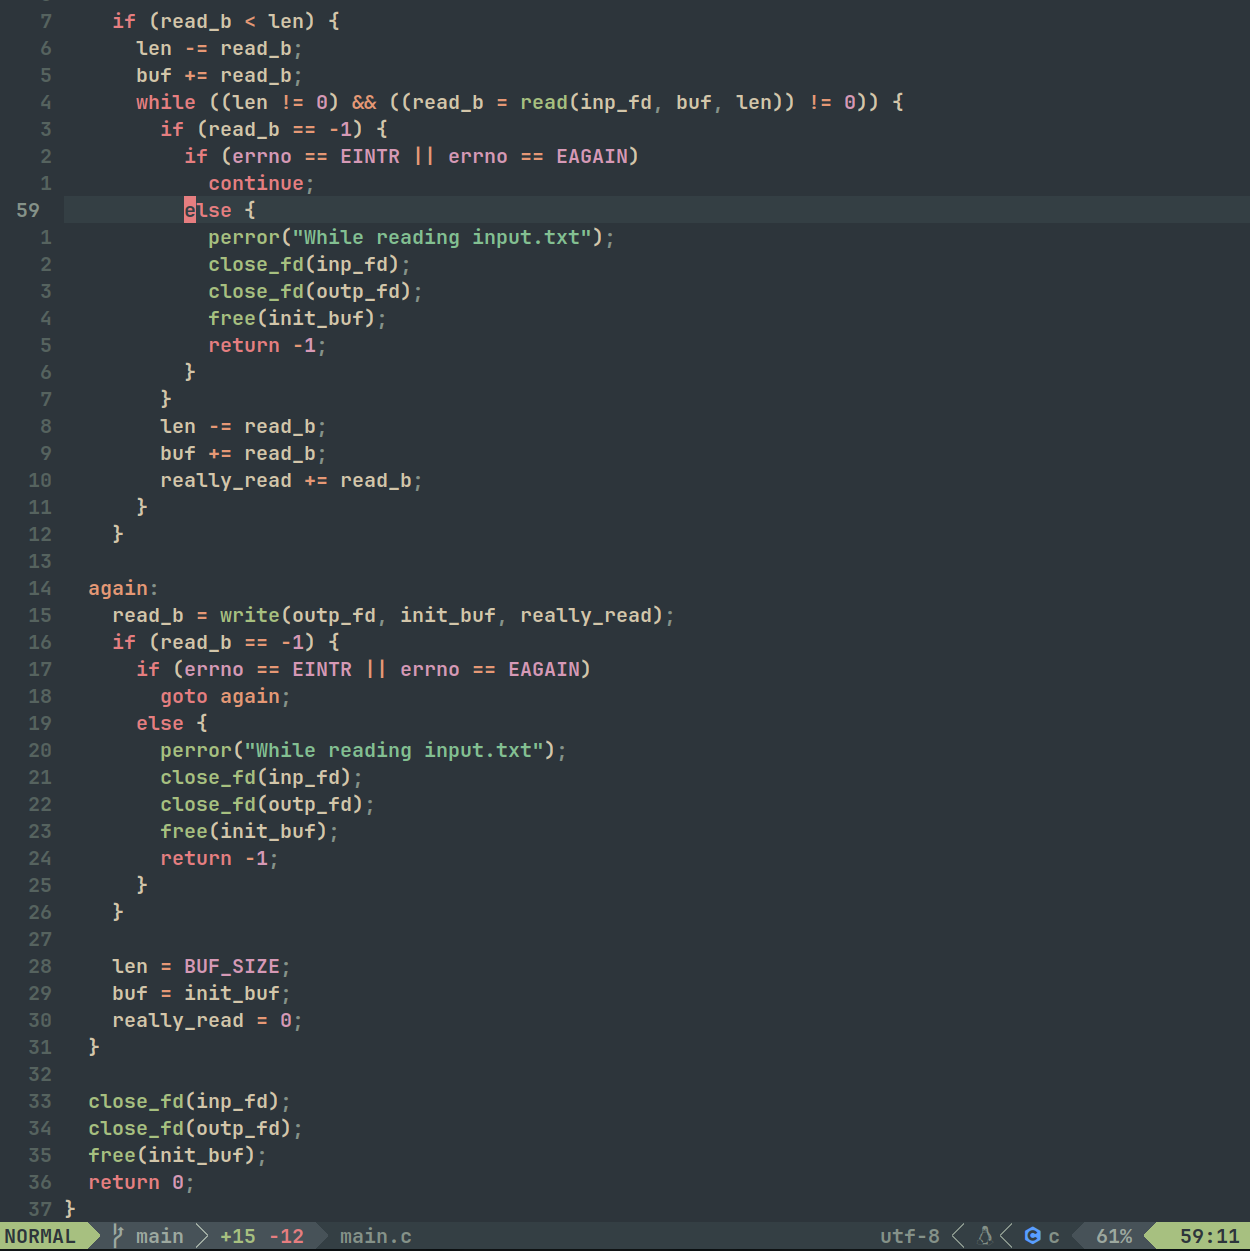
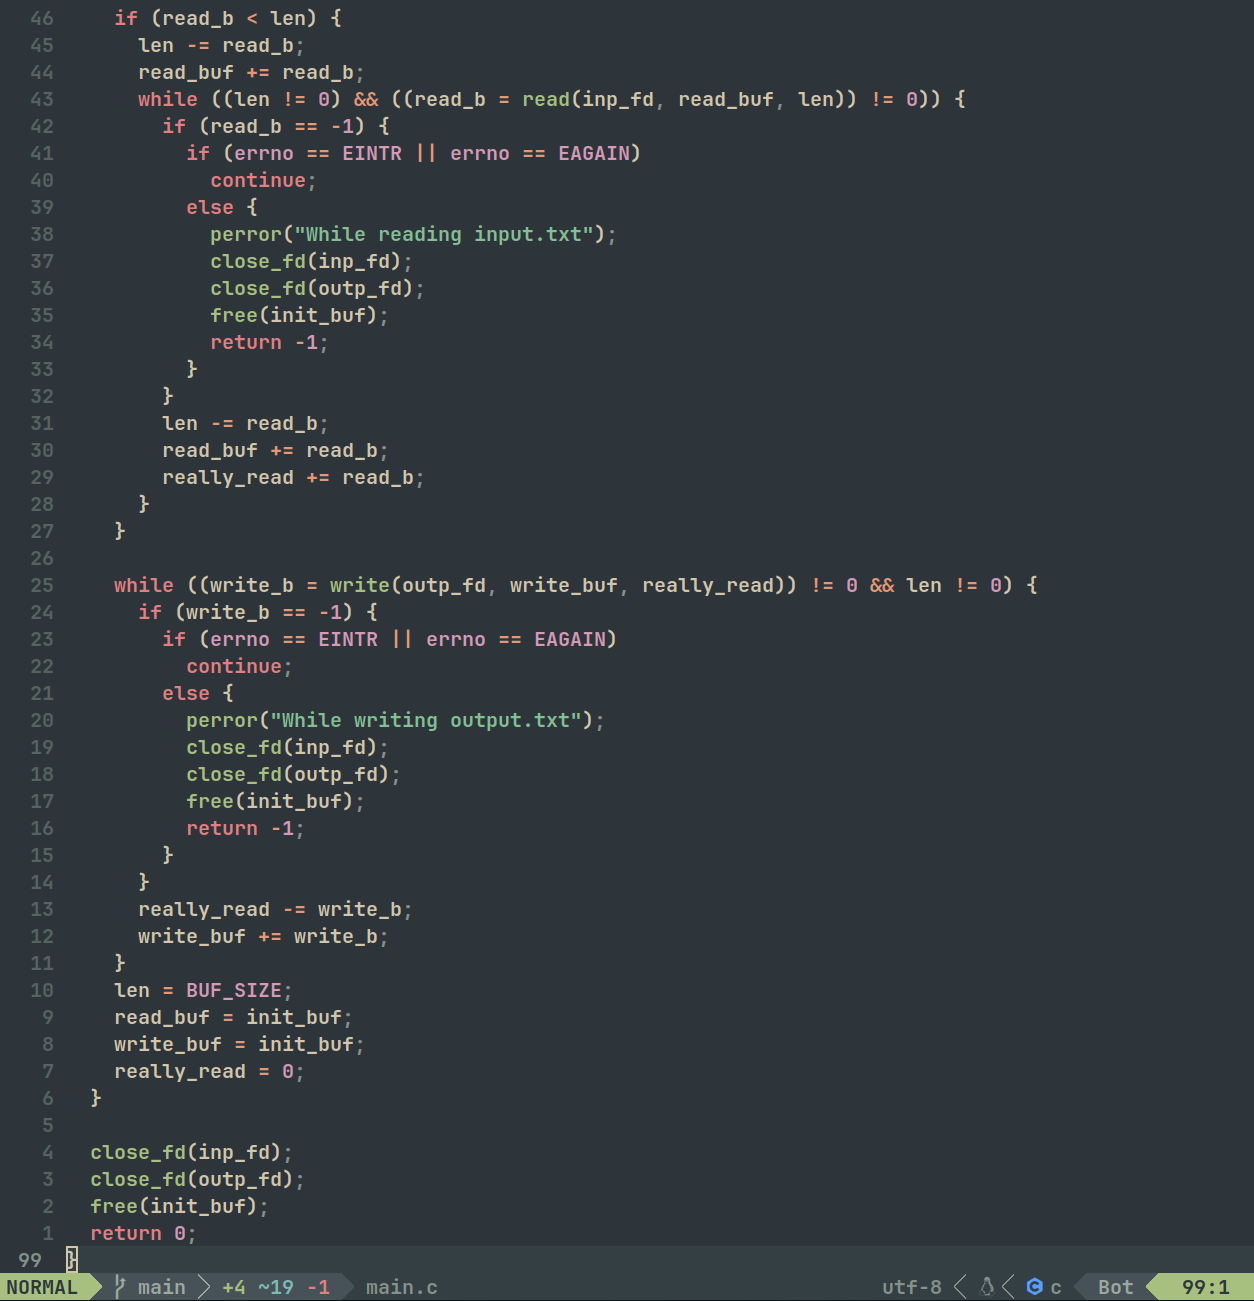
Added checking for partially writing a buffer

diff --git a/read_file/main.c b/read_file/main.c
@@ -29,13 +29,14 @@ int main() {
     return -1;
   }
 
-  ssize_t read_b;
-  char *buf = malloc(sizeof(char) * (BUF_SIZE + 1));
-  char *init_buf = buf;
+  ssize_t read_b,write_b;
+  char *read_buf = malloc(sizeof(char) * (BUF_SIZE + 1));
+  char *init_buf = read_buf;
+  char *write_buf = read_buf;
   int len = BUF_SIZE;
   int really_read = 0;
 
-  while ((read_b = read(inp_fd, buf, len)) != 0) {
+  while ((read_b = read(inp_fd, read_buf, len)) != 0) {
     if (read_b == -1) {
       if (errno == EINTR || errno == EAGAIN)
         continue;
@@ -51,8 +52,8 @@ int main() {
 
     if (read_b < len) {
       len -= read_b;
-      buf += read_b;
-      while ((len != 0) && ((read_b = read(inp_fd, buf, len)) != 0)) {
+      read_buf += read_b;
+      while ((len != 0) && ((read_b = read(inp_fd, read_buf, len)) != 0)) {
         if (read_b == -1) {
           if (errno == EINTR || errno == EAGAIN)
             continue;
@@ -65,27 +66,29 @@ int main() {
           }
         }
         len -= read_b;
-        buf += read_b;
+        read_buf += read_b;
         really_read += read_b;
       }
     }
 
-  again:
-    read_b = write(outp_fd, init_buf, really_read);
-    if (read_b == -1) {
-      if (errno == EINTR || errno == EAGAIN)
-        goto again;
-      else {
-        perror("While reading input.txt");
-        close_fd(inp_fd);
-        close_fd(outp_fd);
-        free(init_buf);
-        return -1;
+    while ((write_b = write(outp_fd, write_buf, really_read)) != 0 && len != 0) {
+      if (write_b == -1) {
+        if (errno == EINTR || errno == EAGAIN)
+          continue;
+        else {
+          perror("While writing output.txt");
+          close_fd(inp_fd);
+          close_fd(outp_fd);
+          free(init_buf);
+          return -1;
+        }
       }
+      really_read -= write_b;
+      write_buf += write_b;
     }
-
     len = BUF_SIZE;
-    buf = init_buf;
+    read_buf = init_buf;
+    write_buf = init_buf;
     really_read = 0;
   }
 
